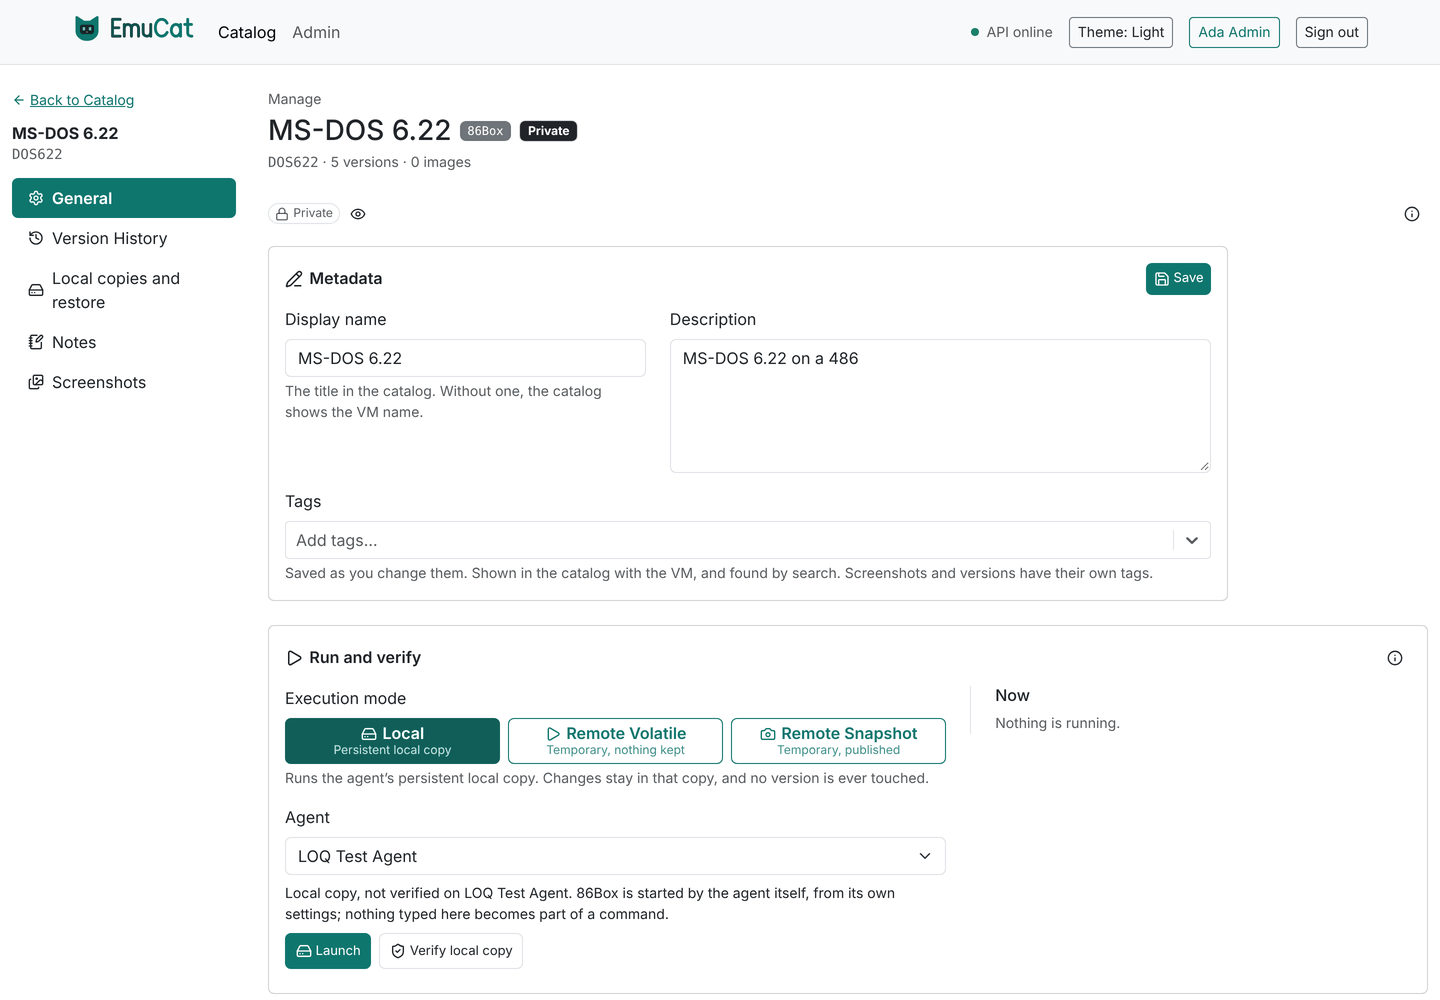
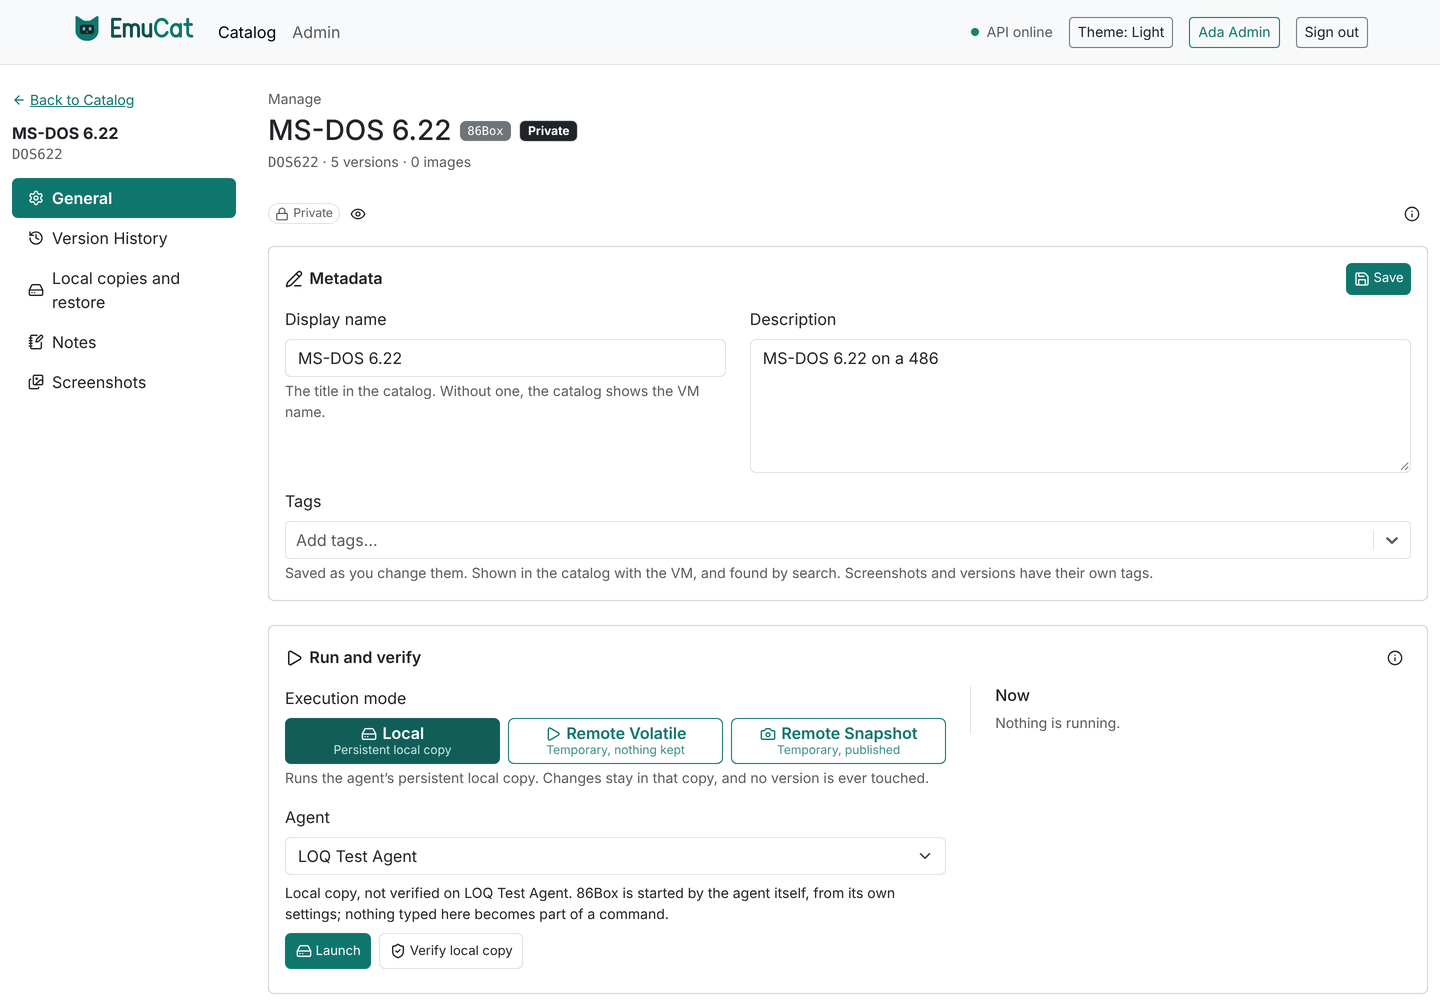
fix(web): give General's metadata section the content's full width
The metadata card was limited to 60rem and left an empty band beside it on
wide screens. It now spans the content like Run and verify; the browser test
checks that both cards are equally wide. Screenshots updated.

Claude-Session: https://claude.ai/code/session_01AKdhjUL5M5FpA9RfDuwQeK

diff --git a/apps/web/e2e/operations.browser.test.ts b/apps/web/e2e/operations.browser.test.ts
@@ -452,6 +452,13 @@ describe.skipIf(CAPTURE_ONLY)('General', () => {
       expect(await label.locator('svg').count()).toBe(1);
     }
     expect(await noSidewaysScroll(page)).toBe(true);
+    // The metadata editor uses the content's full width, as Run and verify does.
+    const widths = await page.evaluate(() =>
+      ['.vm-general-metadata', '.execution-panel'].map((selector) =>
+        Math.round(document.querySelector(selector)!.getBoundingClientRect().width),
+      ),
+    );
+    expect(widths[0]).toBe(widths[1]);
     await shot(page, 'general-active-light');
     await shot(page, 'general-active-light-full', true);
 

diff --git a/apps/web/src/styles.css b/apps/web/src/styles.css
@@ -2000,12 +2000,9 @@ main.container:has(> .page-wide) {
   }
 }
 
-/* General (decision 0060): the VM's toolbar, a metadata editor of a readable width, and Run and verify below. */
+/* General (decision 0060): the VM's toolbar, the metadata editor and Run and verify, each the content's full width. */
 .vm-general-toolbar {
   margin-bottom: 1rem;
-}
-.vm-general-metadata {
-  max-width: 60rem;
 }
 .vm-section-header {
   display: flex;

diff --git a/docs/decisions/0060-operation-visibility.md b/docs/decisions/0060-operation-visibility.md
@@ -102,7 +102,7 @@ Version History read its tree again (expanded branches and focus kept), and refr
 
 The page follows the conventions of 0058/0059: one "VM actions" toolbar (status chip, Make public/private with
 `Eye`/`EyeOff`, View public page as an `IconLink`, the operations summary, VM information); the permanent Details
-panel moved into VM information, every fact preserved; the metadata editor stays visible with explicit Save in its
+panel moved into VM information, every fact preserved; the metadata editor stays visible, at the content's full width like Run and verify (display name and description side by side from 992 px), with explicit Save in its
 section toolbar and an "Unsaved changes" status; tags still save as they change. Run and verify keeps its three
 labelled modes with icons (`HardDrive`, `Play`, `Camera`), its visible explanation of the selected mode, an Info panel
 for all of them, labelled icon actions, and Now lists archive operations apart from emulator sessions.
